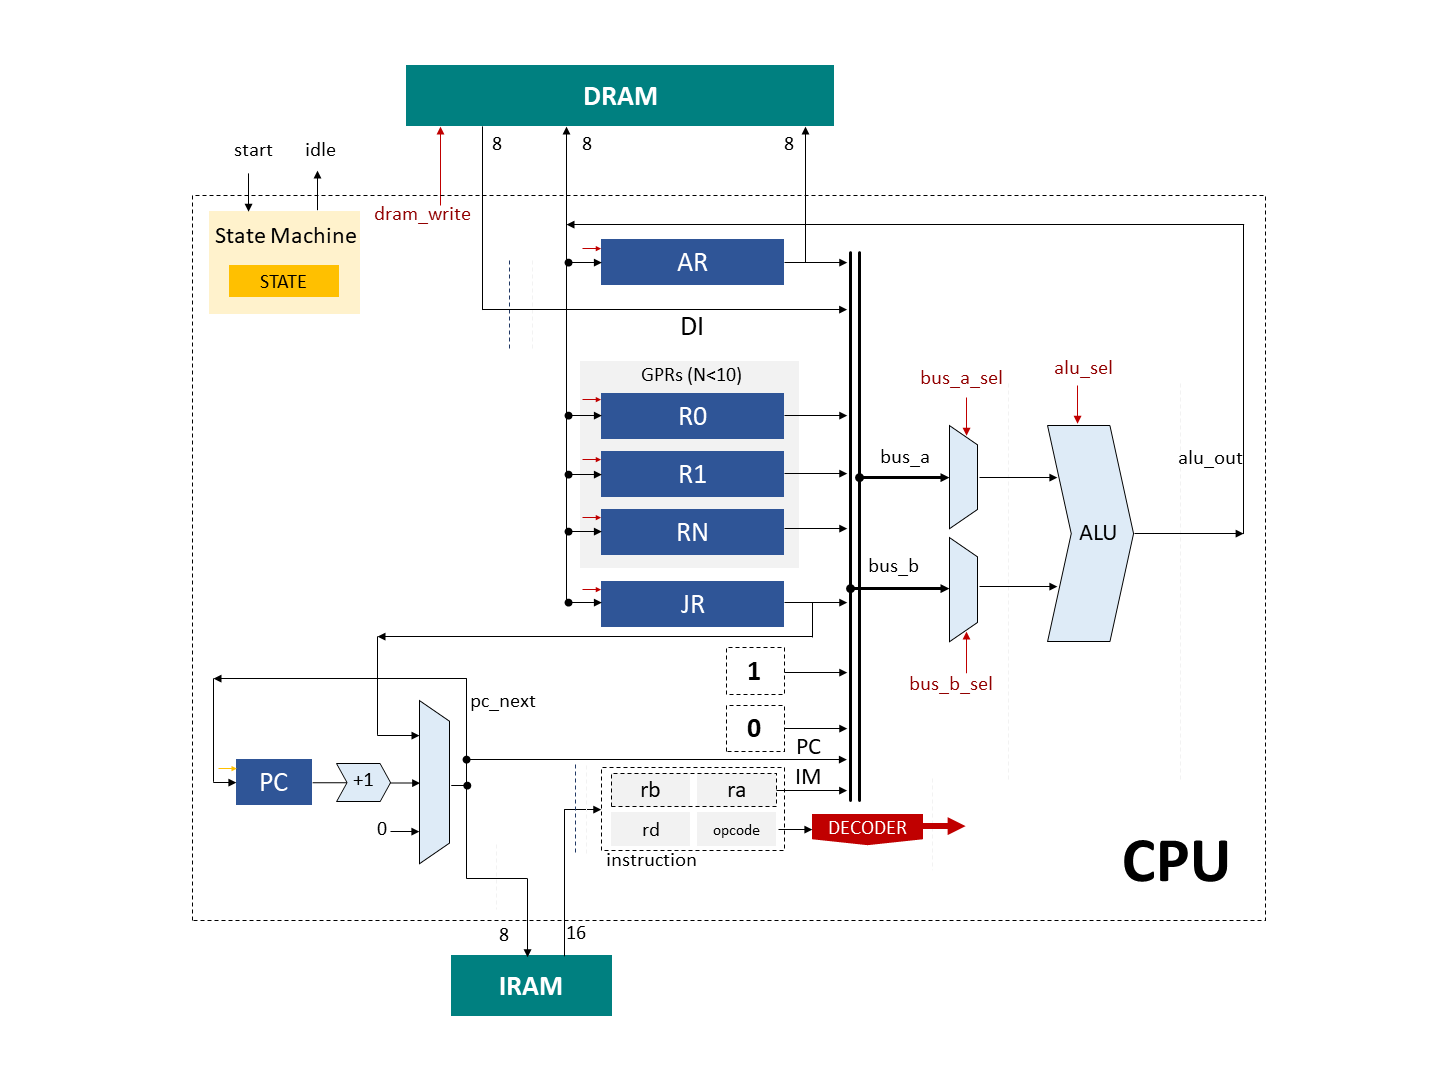
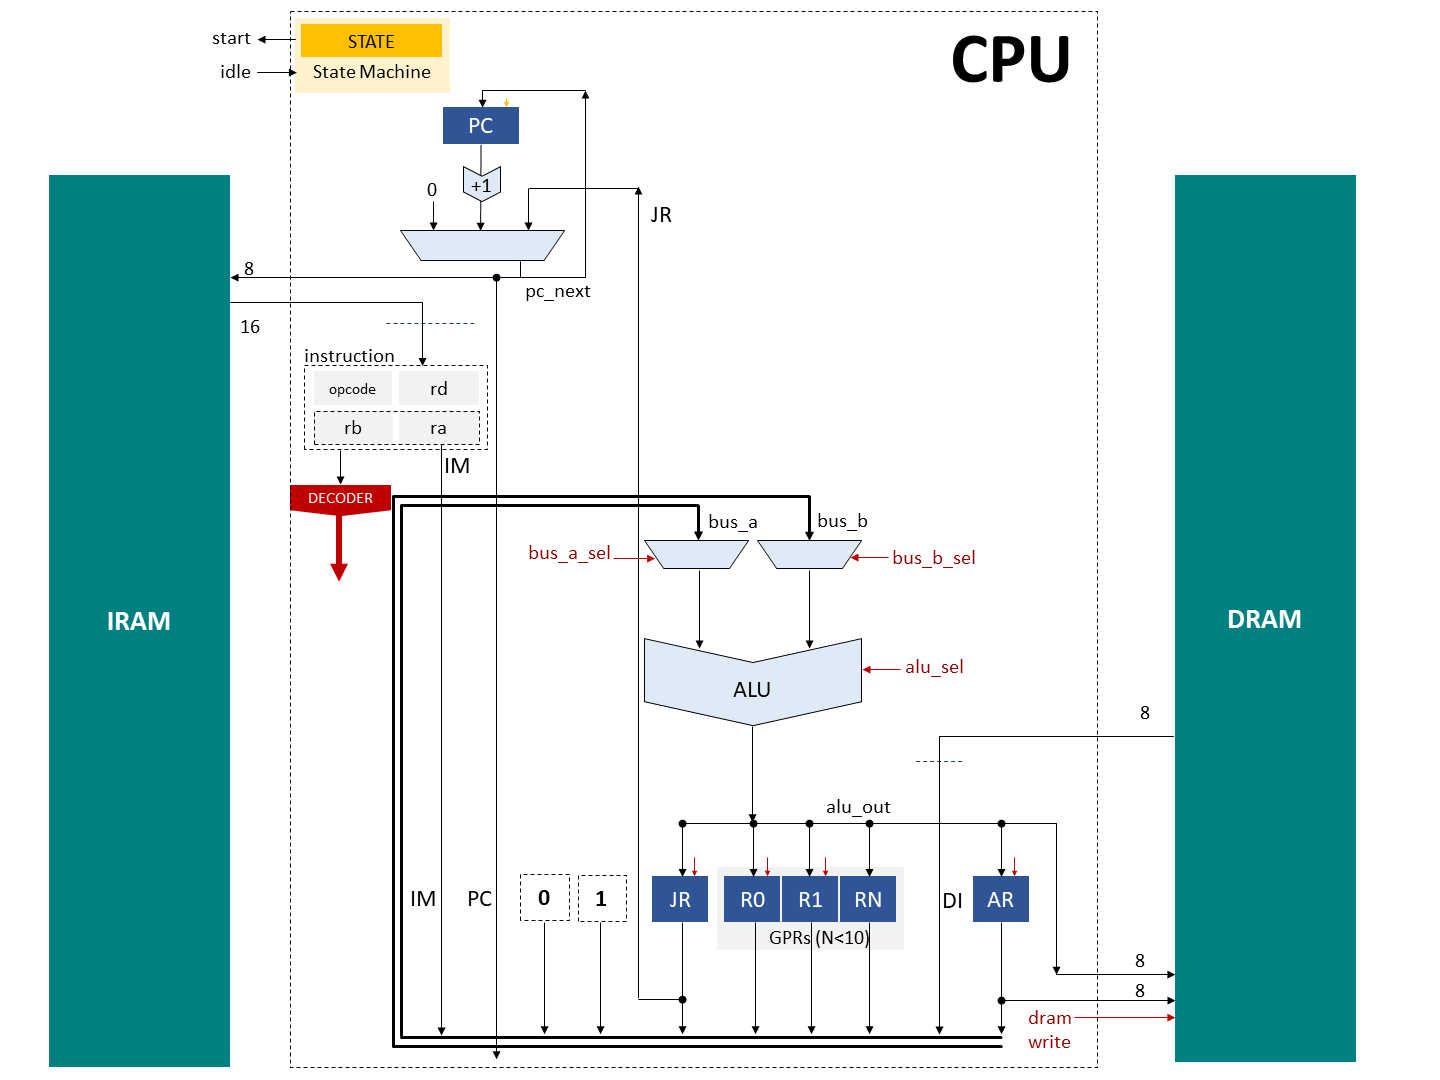
Improve drawings, add pipeline

diff --git a/README.md b/README.md
@@ -15,7 +15,7 @@ To achieve the above objectives, design of v1 trades-off the following:
 * SRAMs with 1 clock latency
 * Relatively long combinational paths
 
-CPU-v2 will be a slightly modified version of v1, with a 6-stage pipeline, SRAMs with 2 clock latency, and short combinational paths for high frequency implementation.
+CPU-v2 will be a slightly modified version of v1, with a 7-stage pipeline, SRAMs with 2 clock latency, and short combinational paths for high frequency implementation.
 
 ## Instruction Set Architecture
 
@@ -117,9 +117,12 @@ Parameters:
 
 ![Architecture](other/arch.PNG)
 
-### Pipelined with 6 stages (v2)
+### Pipelined with 7 stages (v2)
 
 ![Architecture](other/arch_pipelined.PNG)
+### Planned Pipeline (v2)
+
+![Architecture](other/pipeline.PNG)
 
 ## Lines of Code
 
